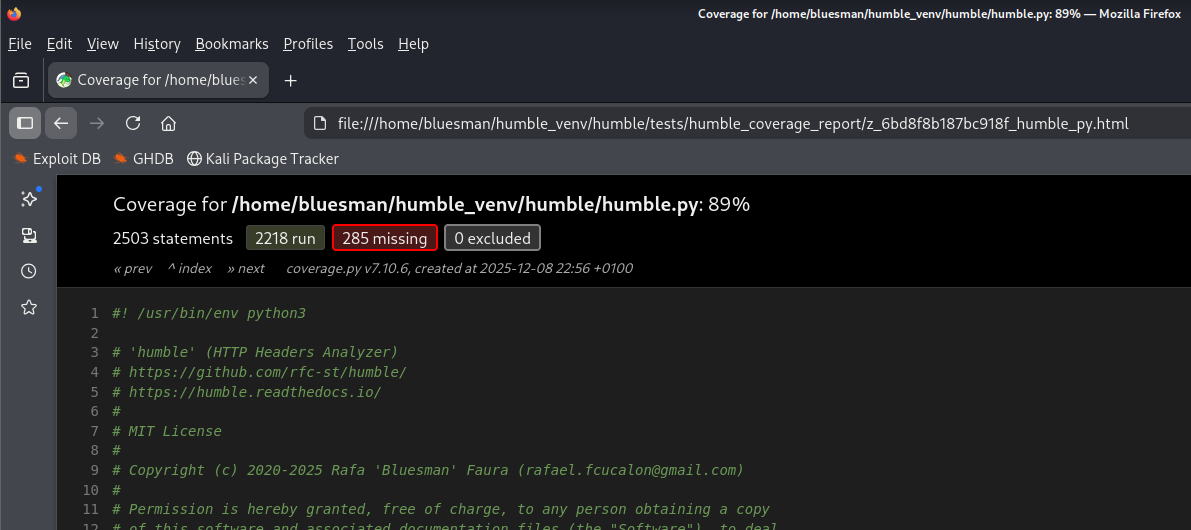
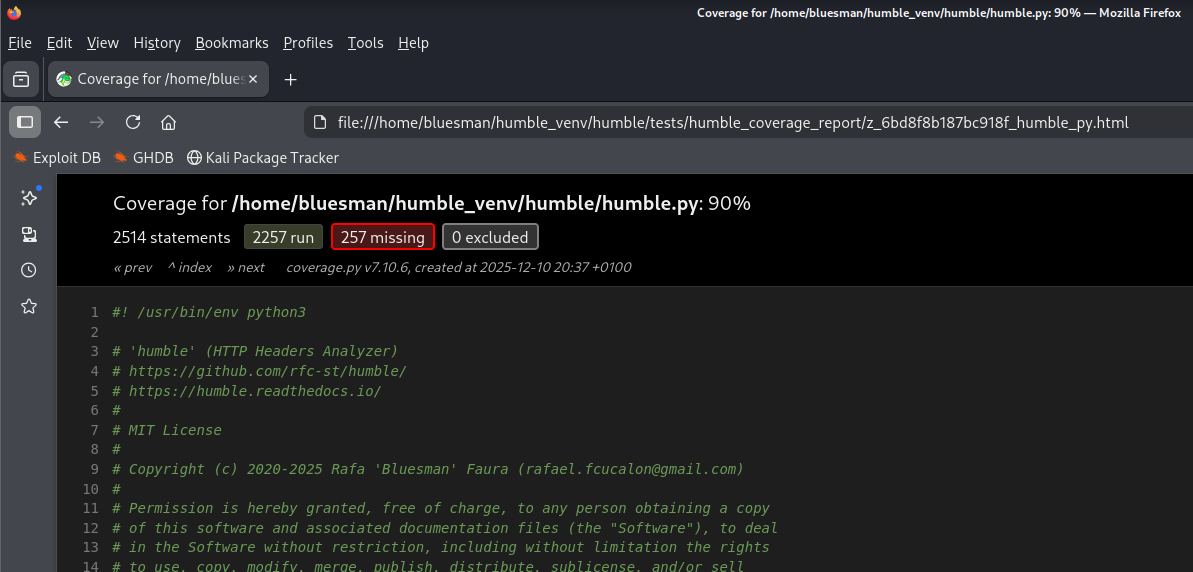
Feature: 1 new unit tests and 90% code coverage. Yay! ^^

diff --git a/tests/test_humble.py b/tests/test_humble.py
@@ -38,6 +38,7 @@ HUMBLE_NOSECHEADERS_FILE = path.abspath(path.join(HUMBLE_TESTS_DIR,
 HUMBLE_NOSECHEADERS_URL = 'https://humbletestingnosecheaders.com'
 HUMBLE_STATISTICS_URL = 'https://en.wikipedia.org'
 HUMBLE_INSUFFICIENT_STATISTICS_URL = 'https://microsoft.com'
+HUMBLE_WRONG_TESTSSL_DIR = '/dev/'
 INPUT_FILE_URL = "https://github.com"
 PROXY_UNREACHABLE = "http://127.0.0.1:65535"
 REQUIRED_PYTHON = (3, 11)
@@ -102,6 +103,8 @@ TEST_CFGS = {
     'test_user_agent': (['-u', TEST_URL, '-ua', '4'],
                         'Selected the User-Agent'),
     'test_user_agent_list': (['-ua', '0'], 'source: '),
+    'test_wrong_testssl': (['-u', TEST_URL, '-e', HUMBLE_WRONG_TESTSSL_DIR],
+                           'not found'),
 }
 TEST_SUMMS = ('[test_help]', '[test_all_headers]', '[test_unsafe_all_headers]',
               '[test_brief_analysis]', '[test_cicd_analysis]',
@@ -120,7 +123,8 @@ TEST_SUMMS = ('[test_help]', '[test_all_headers]', '[test_unsafe_all_headers]',
               '[test_skipped_headers]', '[test_unsupported_header]',
               '[test_updates]', '[test_url_statistics]',
               '[test_url_insufficient_statistics]', '[test_user_agent]',
-              '[test_user_agent_list]', '[test_python_version]')
+              '[test_user_agent_list]', '[test_wrong_testssl]',
+              '[test_python_version]')
 
 
 class _Args:

diff --git a/README.md b/README.md
@@ -23,7 +23,7 @@
 <a target="_blank" href="https://github.com/rfc-st/humble/actions/workflows/bandit-security-scan.yml" title="Results of the last analysis of this tool with bandit, for critical or high vulnerabilities"><img src="https://github.com/rfc-st/humble/actions/workflows/bandit-security-scan.yml/badge.svg"></a>
 <a target="_blank" href="https://github.com/rfc-st/humble/actions/workflows/codeql-analysis.yml?query=workflow%3ACodeQL" title="CodeQL security analysis passed"><img src="https://github.com/rfc-st/humble/workflows/CodeQL/badge.svg"></a>
 <a target="_blank" href="https://humble.readthedocs.io/en/latest/" title="humble documentation status"><img src="https://img.shields.io/badge/documentation-passing-32bd50?labelColor=343b41"></a>
-<a target="_blank" href="https://github.com/rfc-st/humble/?tab=readme-ov-file#unit-tests" title="humble code coverage"><img src="https://img.shields.io/badge/code%20coverage-89%25-f9d71c?labelColor=343b41"></a>
+<a target="_blank" href="https://github.com/rfc-st/humble/?tab=readme-ov-file#unit-tests" title="humble code coverage"><img src="https://img.shields.io/badge/code%20coverage-90%25-32bd50?labelColor=343b41"></a>
 <a target="_blank" href="https://www.bestpractices.dev/projects/9543" title="OpenSSF best practices analysis"><img src="https://www.bestpractices.dev/projects/9543/badge"></a>
 <br />
 <br />
@@ -86,7 +86,7 @@
 :heavy_check_mark: Can display analysis statistics for a specific URL or across all of them.<br />
 :heavy_check_mark: Can display fingerprint statistics for a specific term or the Top 20.<br />
 :heavy_check_mark: Can display guidelines for enabling security HTTP response headers on popular frameworks, servers, and services.<br />
-:heavy_check_mark: Provides basic [unit tests](#unit-tests) to verify compatibility with your environment; requires <a href="https://pypi.org/project/pytest/" target="_blank">pytest<a> and <a href="https://pypi.org/project/pytest-cov/">pytest-cov</a>.<br />
+:heavy_check_mark: Provides [unit tests](#unit-tests) to verify compatibility with your environment; requires <a href="https://pypi.org/project/pytest/" target="_blank">pytest<a> and <a href="https://pypi.org/project/pytest-cov/">pytest-cov</a>.<br />
 :heavy_check_mark: Classes and functions documented at <a href="https://humble.readthedocs.io/en/latest/" target="_blank">Read the Docs<a>.<br />
 :heavy_check_mark: Code reviewed via <a href="https://pypi.org/project/bandit/" target="_blank">Bandit<a>, <a href="https://marketplace.visualstudio.com/items?itemName=ms-python.flake8" target="_blank">Flake8<a>, <a href="https://github.com/joerick/pyinstrument" target="_blank">pyinstrument<a>, <a href="https://marketplace.visualstudio.com/items?itemName=SonarSource.sonarlint-vscode" target="_blank">SonarQube for IDE<a> and <a href="https://marketplace.visualstudio.com/items?itemName=sourcery.sourcery" target="_blank">Sourcery<a>.<br />
 :heavy_check_mark: Tested, one by one, on thousands of URLs.<br />
@@ -434,24 +434,31 @@ $ datasets=('https://facebook.com' 'https://github.com' 'https://www.spacex.com'
 ```
 $ cd <humble dir>
 $ cd tests
-$ python test_basic.py -l en
+$ python test_humble.py -l en
 ```
 
-<img src="https://github.com/rfc-st/humble/blob/master/screenshots/humble_basic_tests_ok.PNG" alt="(Linux) - All tests passed successfully">
+<img src="https://github.com/rfc-st/humble/blob/master/screenshots/humble_tests_ok.PNG" alt="(Linux) - All tests passed successfully">
 
 .: (Linux) - Code coverage (for now, it only works on Linux).<br />
 ```
 $ cd <humble dir>
 $ cd tests
-$ pytest test_basic.py --cov-config=.coveragerc --cov=.. --cov-report=html --tb=no -rA -q -v -W ignore
+$ pytest test_humble.py --cov-config=.coveragerc --cov=.. --cov-report=html --tb=no -rA -q -v -W ignore
 $ cd humble_coverage_report
 Open the index.html file in a browser.
 ```
 
 <img src="https://github.com/rfc-st/humble/blob/master/screenshots/humble_code_coverage.PNG" alt="(Linux) - Code coverage">
 
-> [!NOTE]
-> After reviewing the code coverage you can delete all files and folders from the *tests* directory except for the *.coveragerc*, *analysis_h.txt*, *client_error_test.txt, *headers_none_security.txt*, *headers_test_all.txt* and *test_basic.py* files: if these files are deleted, the tests will fail.
+> [!IMPORTANT]
+> After reviewing the code coverage you can delete all files and folders from the *tests* directory except for the following, as they are required precisely for those tests:
+>
+> - *.coveragerc*
+> - *analysis_h.txt*
+> - *client_error_test.txt*
+> - *headers_none_security.txt*
+> - *headers_test_all.txt*
+> - *test_humble.py*
 
 > [!TIP]
 > <a target="_blank" href="https://docs.pytest.org/en/stable/reference/reference.html">pytest</a> and <a target="_blank" href="https://pytest-cov.readthedocs.io/en/latest/config.html">pytest-cov</a> parameters:
